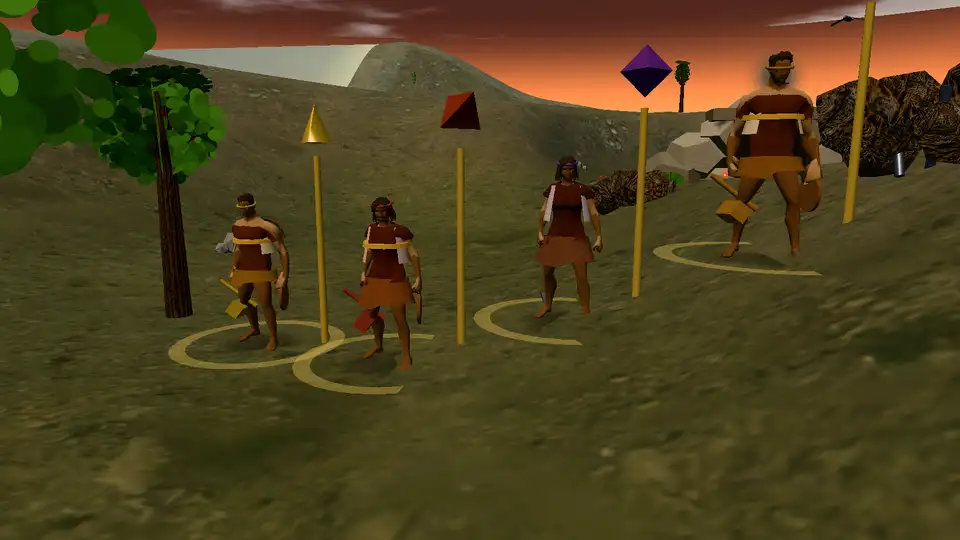
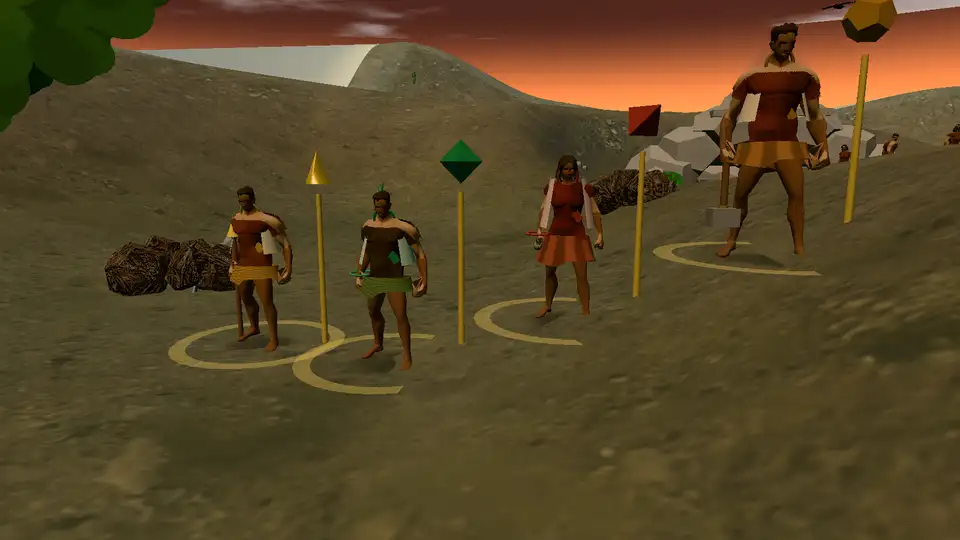
docs(tambotoco): publish the art-pass evidence captures
Adds the 1600x900 after captures (cave, shrine, hualla, acequia, Inticancha, built base, close and valley) as 960x540 WebP evidence, and refreshes the Ayar close/far/cast images with the new per-commander gear.

diff --git a/docs/design/tambotoco-model-mission.md b/docs/design/tambotoco-model-mission.md
@@ -236,9 +236,10 @@ dialogue.
 - `node scripts/capture_ayllu_quality.mjs --tag=before|after [--sizes=1280x720,1600x900,1920x1080]`
   captures cave, Huanacaure, hualla, acequia, Inticancha, valley, close, wide and (after only) the built
   base at each resolution with the HUD hidden, seed 777, `fundada` and the gate open. The 2026-11-16
-  before/after sets are in `review/ayllu-quality-*` (gitignored); attach the PNGs to the PR. The same pass
-  is covered by `tests/ayllu-kit.test.ts` (surface families, phase groups, plinths) and
-  `tests/tambotoco-layout.test.ts`.
+  before/after sets are in `review/ayllu-quality-*` (gitignored); attach the PNGs to the PR. The 1600×900
+  after captures are published as `docs/media/tambotoco-quality-{cave,shrine,hualla,acequia,inticancha,built,
+  close,valley}.webp` (960×540, WebP q58). The same pass is covered by `tests/ayllu-kit.test.ts` (surface
+  families, phase groups, plinths) and `tests/tambotoco-layout.test.ts`.
 
 ## Open items
 
